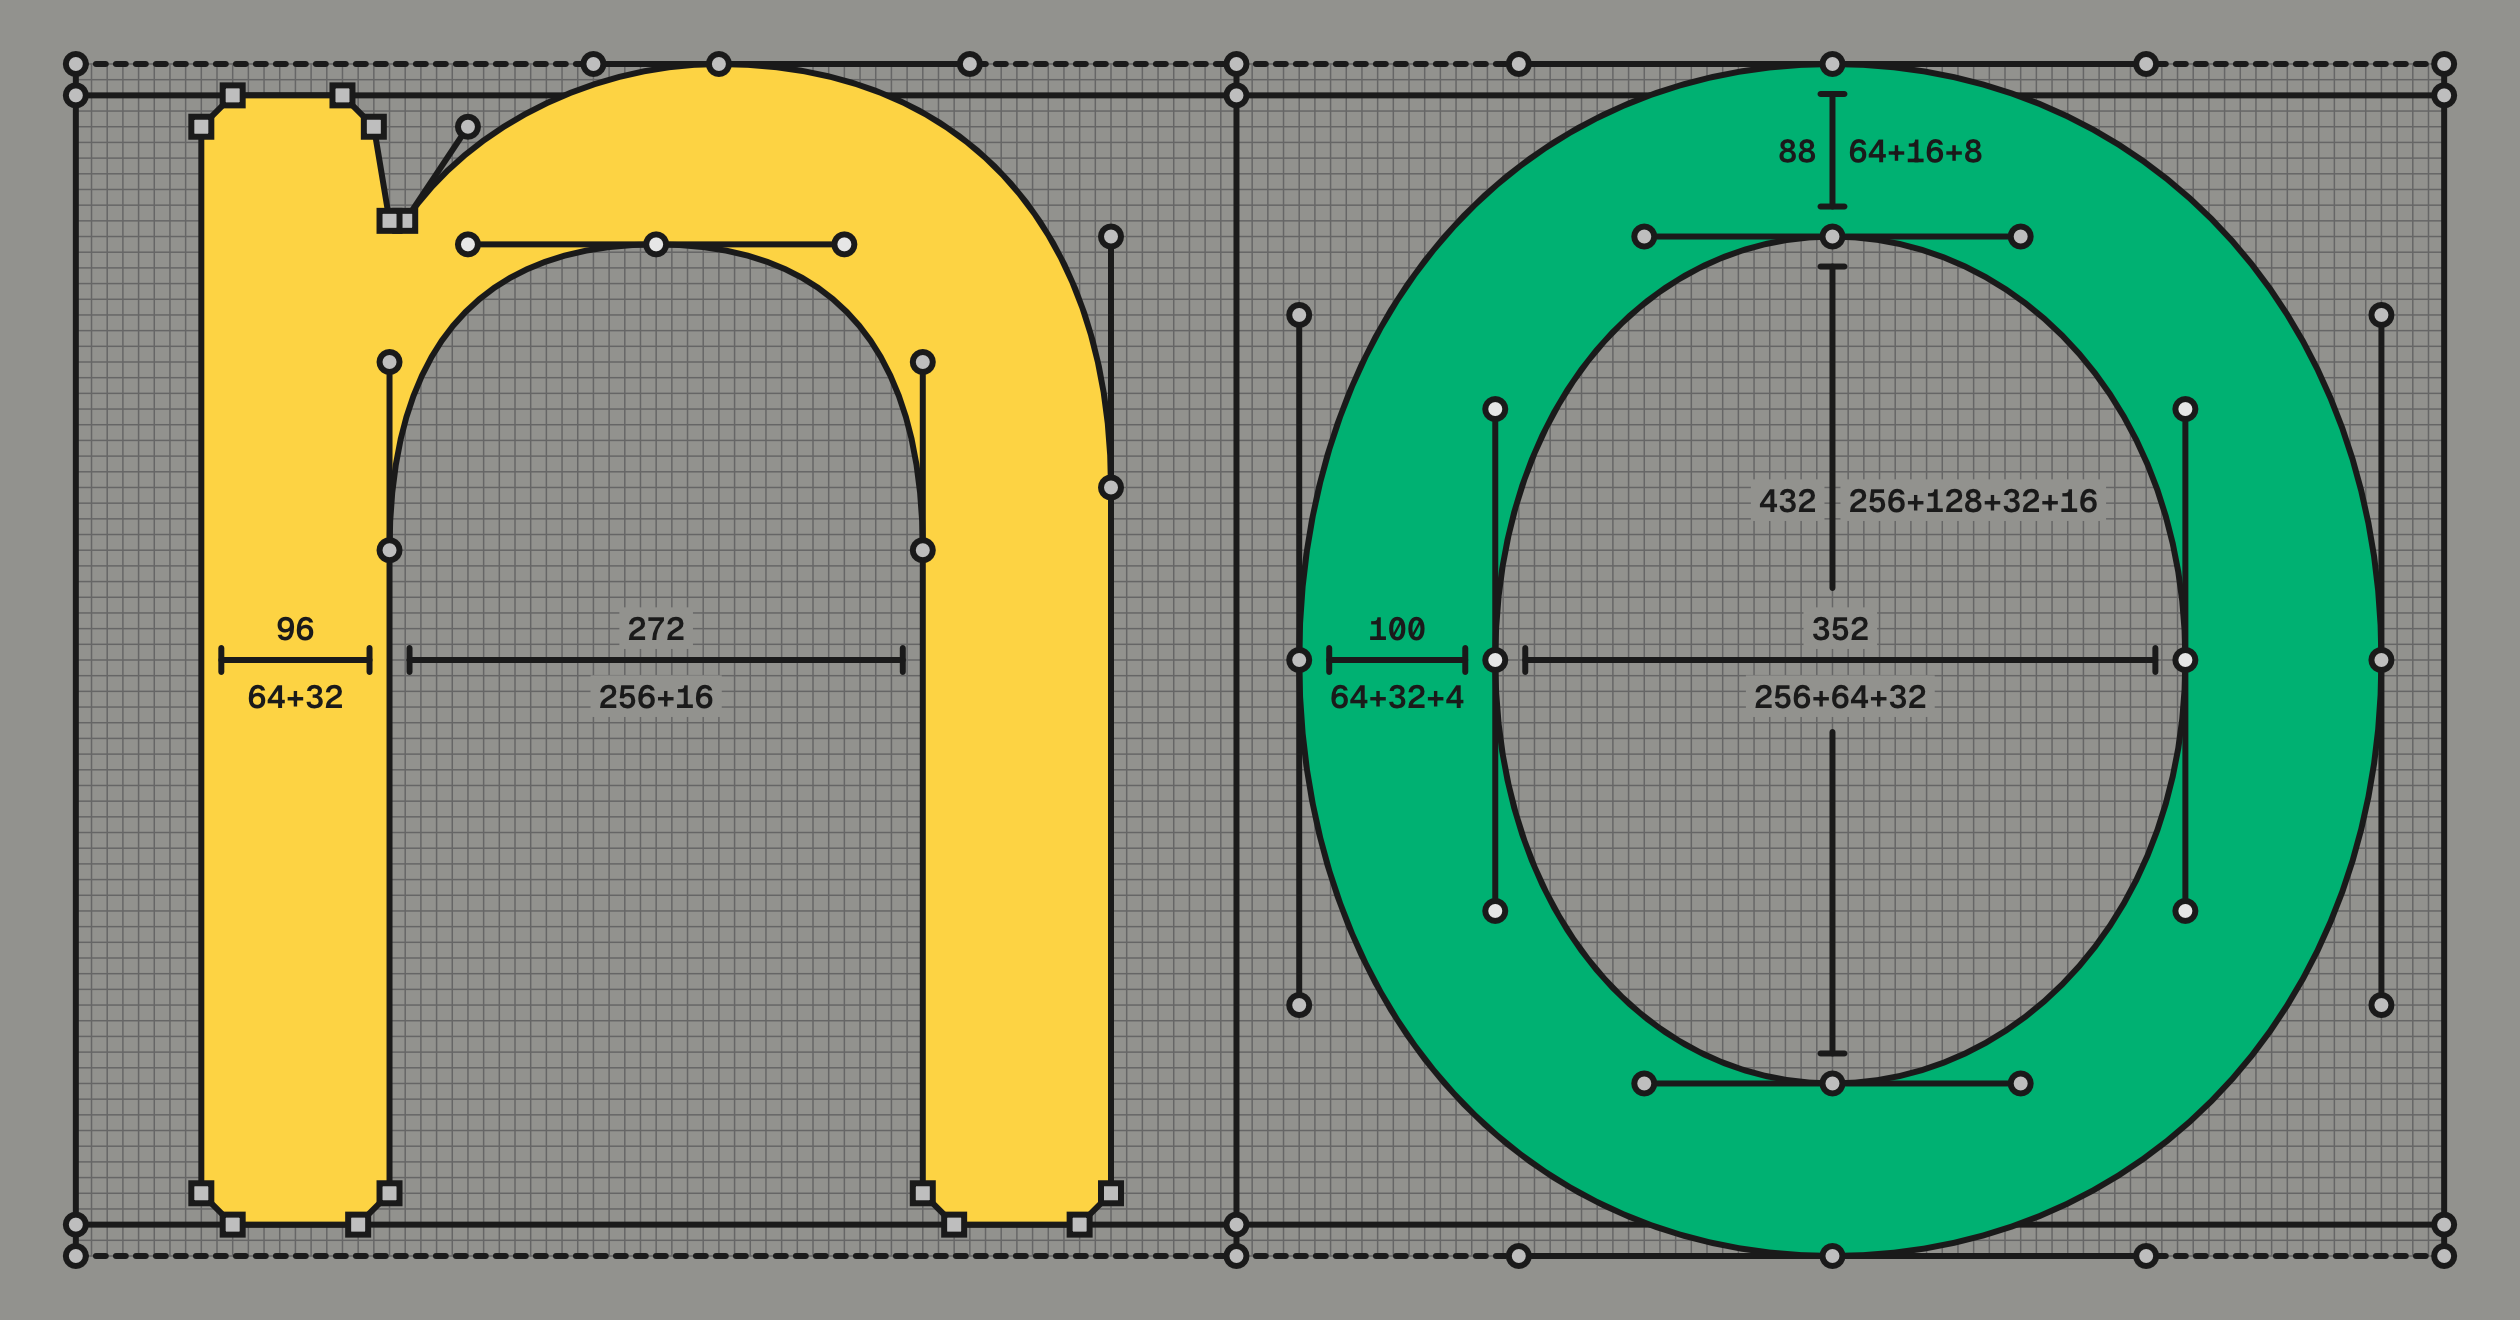
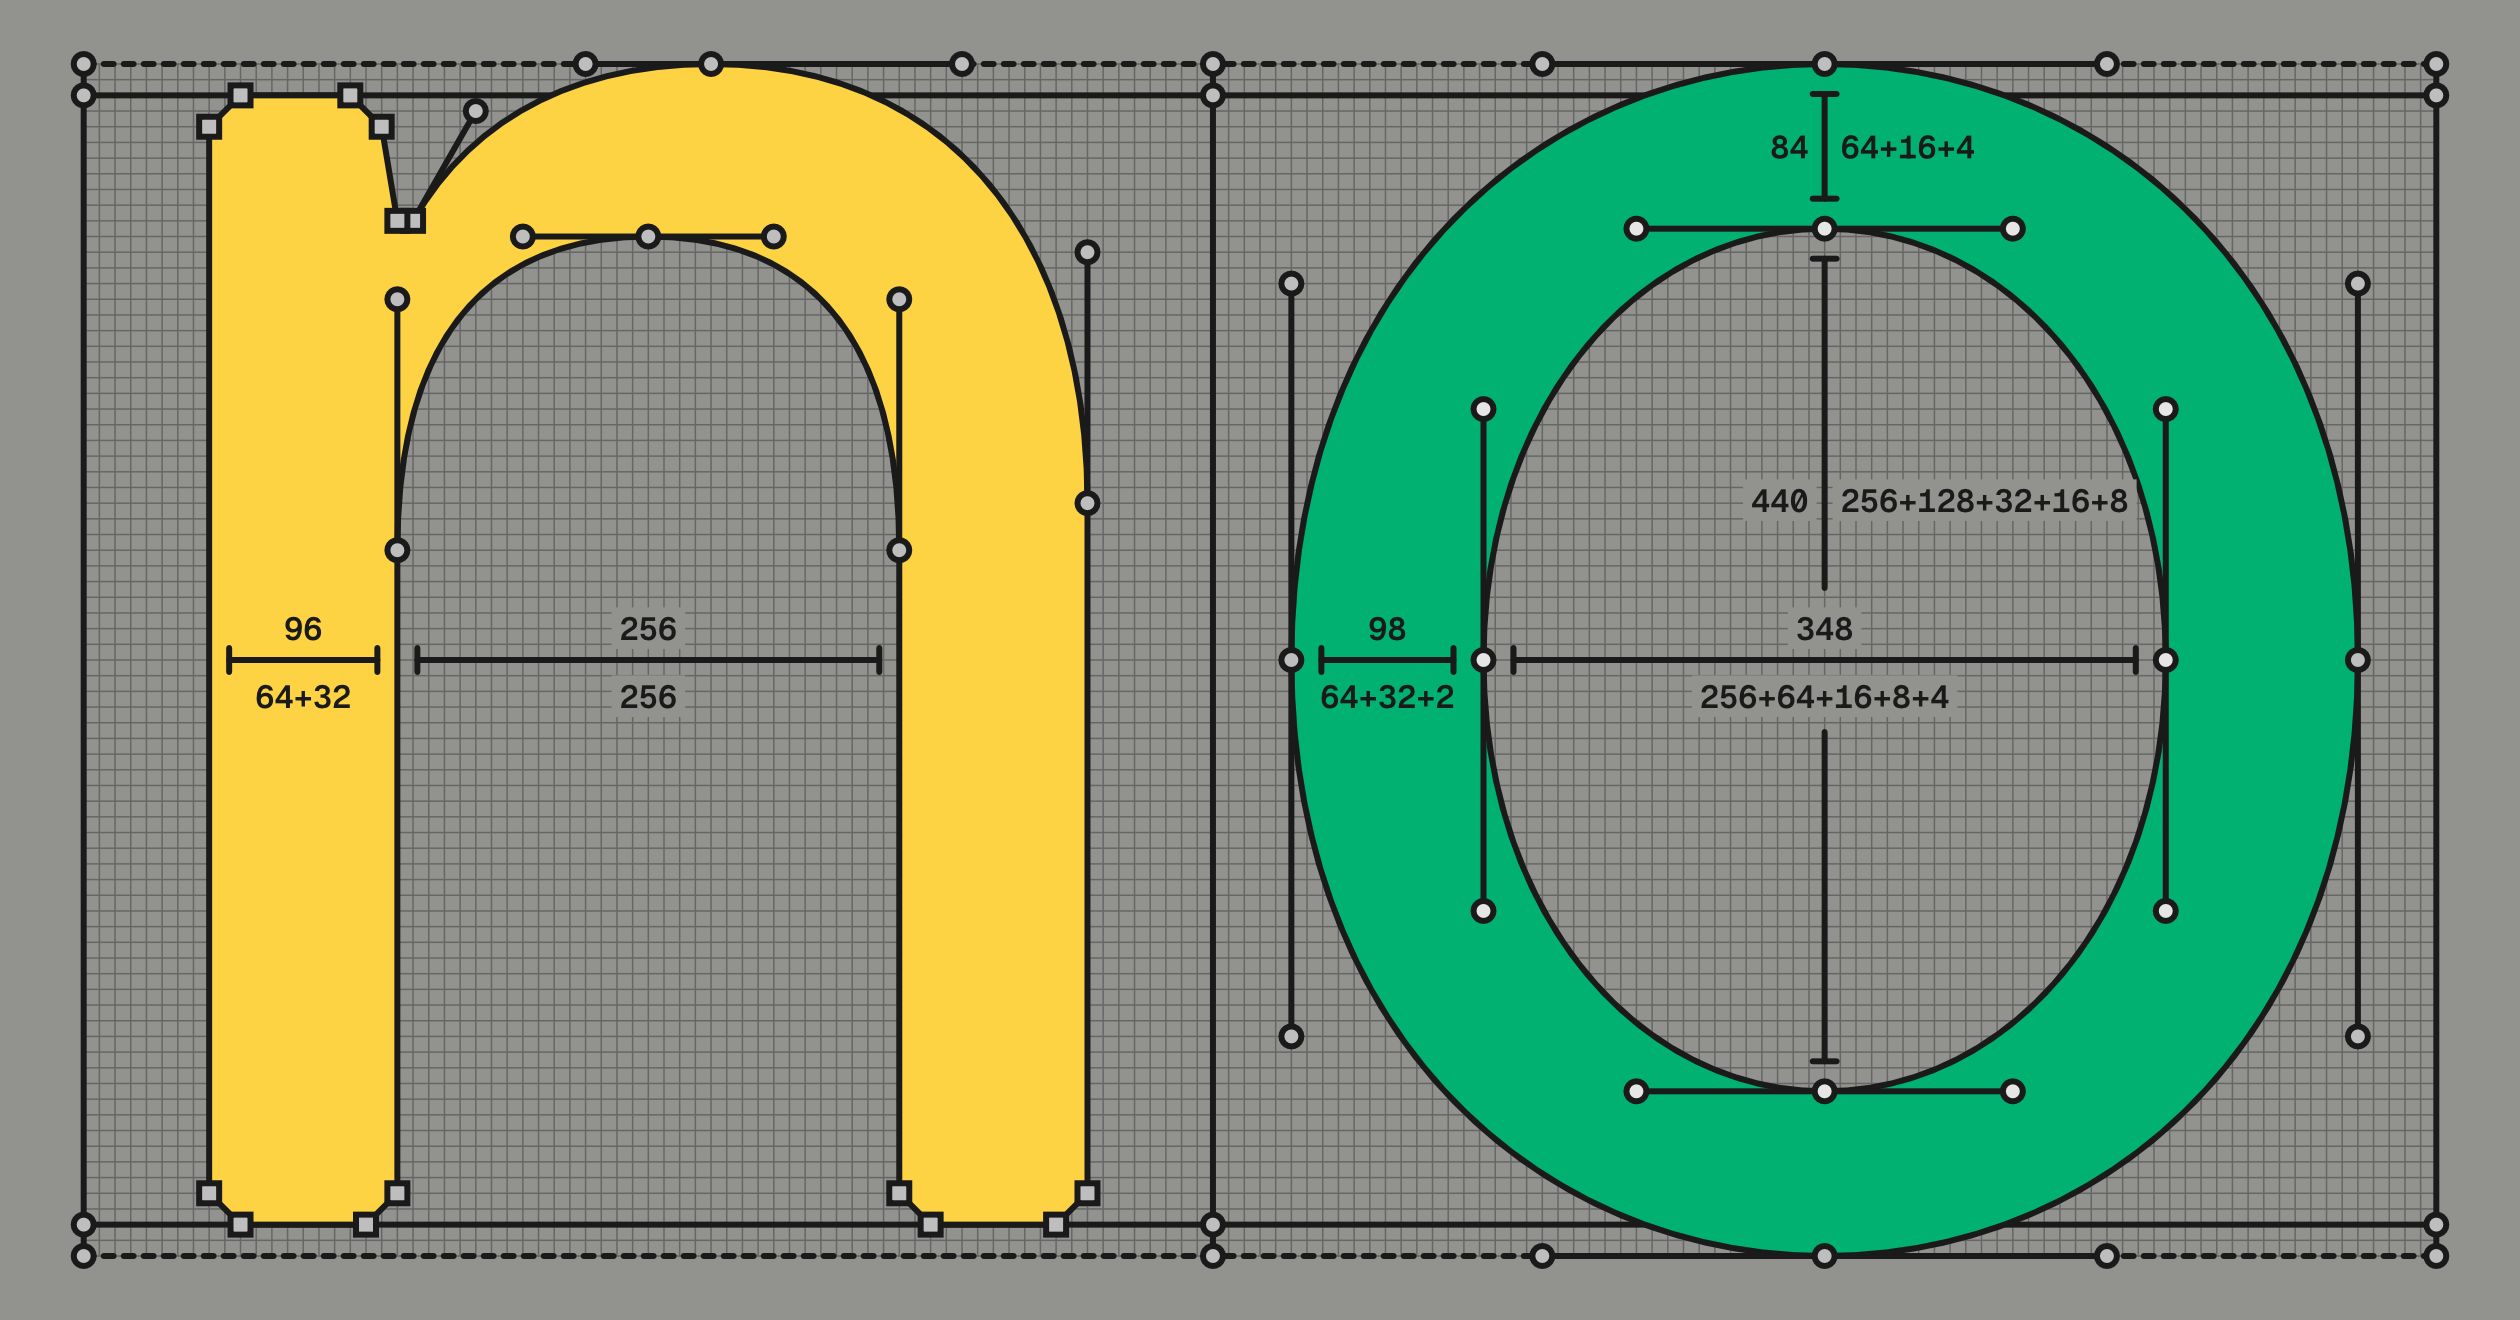
Auto-measure all dimension figures from outline crossings; reconcile drifted values

diff --git a/scripts/virtua-grotesk/src/bin/system.rs b/scripts/virtua-grotesk/src/bin/system.rs
@@ -62,20 +62,22 @@ fn fig_no(renderer: &Renderer, mono: &str, reg: &std::path::Path, out: &std::pat
     }
 
     // Representative stroke sizes plus the open n counter and closed o
-    // counter. Values and endpoints are taken directly from the current UFO.
-    const MEASUREMENTS: [TechnicalMeasurement; 6] = [
-        TechnicalMeasurement::edges(0, (64.0, 288.0), (160.0, 288.0), 96),
-        TechnicalMeasurement::edges(0, (160.0, 288.0), (432.0, 288.0), 272).counter(),
-        TechnicalMeasurement::points(1, (32.0, 288.0), (132.0, 288.0), 100),
-        TechnicalMeasurement::points(1, (304.0, 504.0), (304.0, 592.0), 88),
-        TechnicalMeasurement::points(1, (304.0, 72.0), (304.0, 504.0), 432)
+    // counter. Endpoints and values are resolved from the outlines at
+    // render time, so redrawn glyphs re-measure themselves.
+    let o_mid = ink_mid_x(&o);
+    let measurements = [
+        measure_h_edges(&n, 0, 288.0, (0, 1)),
+        measure_h_edges(&n, 0, 288.0, (1, 2)).counter(),
+        measure_h_points(&o, 1, 288.0, (0, 1)),
+        measure_v_points(&o, 1, o_mid, (2, 3)),
+        measure_v_points(&o, 1, o_mid, (1, 2))
             .counter()
             .gap_line(288.0, COUNTER_LINE_GAP)
             .shift_label(0.0, COUNTER_LABEL_SHIFT),
-        TechnicalMeasurement::points(1, (132.0, 288.0), (484.0, 288.0), 352).counter(),
+        measure_h_points(&o, 1, 288.0, (1, 2)).counter(),
     ];
     let origins = [x_n, x_o];
-    for measurement in MEASUREMENTS {
+    for measurement in measurements {
         technical.measurement(&mut sheet, &f, origins[measurement.glyph], measurement);
     }
     sheet.save(renderer, out);
@@ -120,21 +122,23 @@ fn fig_ho(renderer: &Renderer, mono: &str, reg: &std::path::Path, out: &std::pat
     }
 
     // The H opening and O counter join the representative stem and crossbar
-    // sizes. Values and endpoints are taken directly from the current UFO.
-    const MEASUREMENTS: [TechnicalMeasurement; 7] = [
-        TechnicalMeasurement::points(0, (80.0, 600.0), (184.0, 600.0), 104),
-        TechnicalMeasurement::edges(0, (184.0, 600.0), (584.0, 600.0), 400).counter(),
-        TechnicalMeasurement::edges(0, (384.0, 360.0), (384.0, 456.0), 96),
-        TechnicalMeasurement::points(1, (48.0, 384.0), (156.0, 384.0), 108).break_sum_after(2),
-        TechnicalMeasurement::points(1, (424.0, 684.0), (424.0, 784.0), 100),
-        TechnicalMeasurement::points(1, (424.0, 84.0), (424.0, 684.0), 600)
+    // sizes. Endpoints and values are resolved from the outlines at render
+    // time, so redrawn glyphs re-measure themselves.
+    let o_mid = ink_mid_x(&o);
+    let measurements = [
+        measure_h_points(&h, 0, 600.0, (0, 1)),
+        measure_h_edges(&h, 0, 600.0, (1, 2)).counter(),
+        measure_v_edges(&h, 0, 384.0, (0, 1)),
+        measure_h_points(&o, 1, 384.0, (0, 1)).break_sum_after(2),
+        measure_v_points(&o, 1, o_mid, (2, 3)),
+        measure_v_points(&o, 1, o_mid, (1, 2))
             .counter()
             .gap_line(384.0, COUNTER_LINE_GAP)
             .shift_label(0.0, COUNTER_LABEL_SHIFT),
-        TechnicalMeasurement::points(1, (156.0, 384.0), (692.0, 384.0), 536).counter(),
+        measure_h_points(&o, 1, 384.0, (1, 2)).counter(),
     ];
     let origins = [x_h, x_o];
-    for measurement in MEASUREMENTS {
+    for measurement in measurements {
         technical.measurement(&mut sheet, &f, origins[measurement.glyph], measurement);
     }
     sheet.save(renderer, out);
@@ -182,51 +186,38 @@ fn fig_weights(
         draw_figure_glyph(&mut sheet, outline, S, x, f.baseline, fill);
     }
 
-    // stems and curves, both weights, all measured
-    sheet.dim_h(
-        x_rn + 64.0 * S,
-        x_rn + 160.0 * S,
-        f.y(256.0),
-        "96",
-        role::figure::pen(),
-    );
-    sheet.dim_h(
-        x_ro + 32.0 * S,
-        x_ro + 132.0 * S,
-        f.y(288.0),
-        "100",
-        role::figure::pen(),
-    );
-    sheet.dim_v(
-        x_ro + 304.0 * S,
-        f.y(500.0),
-        f.y(592.0),
-        "92",
-        role::figure::pen(),
-        true,
-    );
-    sheet.dim_h(
-        x_bn + 64.0 * S,
-        x_bn + 256.0 * S,
-        f.y(256.0),
-        "192",
-        role::figure::pen(),
-    );
-    sheet.dim_h(
-        x_bo + 32.0 * S,
-        x_bo + 228.0 * S,
-        f.y(288.0),
-        "196",
-        role::figure::pen(),
-    );
-    sheet.dim_v(
-        x_bo + 344.0 * S,
-        f.y(452.0),
-        f.y(592.0),
-        "140",
-        role::figure::pen(),
-        true,
-    );
+    // Stems and curves, both weights, resolved from the outlines at render
+    // time so redrawn glyphs re-measure themselves.
+    let mut dim_h_span = |o: &Outline, x_origin: f64, y: f64, span: (usize, usize)| {
+        let (a, b, v) = h_span(o, y, span).expect("weights h span");
+        sheet.dim_h(
+            x_origin + a * S,
+            x_origin + b * S,
+            f.y(y),
+            &v.to_string(),
+            role::figure::pen(),
+        );
+    };
+    dim_h_span(&rn, x_rn, 256.0, (0, 1));
+    dim_h_span(&ro, x_ro, 288.0, (0, 1));
+    dim_h_span(&bn, x_bn, 256.0, (0, 1));
+    dim_h_span(&bo, x_bo, 288.0, (0, 1));
+    drop(dim_h_span);
+    let mut dim_v_span = |o: &Outline, x_origin: f64, span: (usize, usize)| {
+        let mid = ink_mid_x(o);
+        let (a, b, v) = v_span(o, mid, span).expect("weights v span");
+        sheet.dim_v(
+            x_origin + mid * S,
+            f.y(a),
+            f.y(b),
+            &v.to_string(),
+            role::figure::pen(),
+            true,
+        );
+    };
+    dim_v_span(&ro, x_ro, (2, 3));
+    dim_v_span(&bo, x_bo, (2, 3));
+    drop(dim_v_span);
     sheet.save(renderer, out);
 }
 
@@ -349,18 +340,22 @@ fn fig_semantic(renderer: &Renderer, mono: &str, reg: &std::path::Path, out: &st
         BASELINE,
         role::figure::green(),
     );
+    // Both dims and the binary rows below resolve from the outlines, so a
+    // redrawn stem or curve re-measures itself.
+    let (n_a, n_b, n_stem) = h_span(&n, 250.0, (0, 1)).expect("n stem @250");
+    let (o_a, o_b, o_stroke) = h_span(&o, 288.0, (0, 1)).expect("o stroke @288");
     sheet.dim_h(
-        x0 + 64.0 * S,
-        x0 + 160.0 * S,
+        x0 + n_a * S,
+        x0 + n_b * S,
         BASELINE + 250.0 * S,
-        "96",
+        &n_stem.to_string(),
         role::figure::pen(),
     );
     sheet.dim_h(
-        x0 + (n.width + 32.0) * S,
-        x0 + (n.width + 132.0) * S,
-        BASELINE + 310.0 * S,
-        "100",
+        x0 + (n.width + o_a) * S,
+        x0 + (n.width + o_b) * S,
+        BASELINE + 288.0 * S,
+        &o_stroke.to_string(),
         role::figure::pen(),
     );
 
@@ -402,8 +397,8 @@ fn fig_semantic(renderer: &Renderer, mono: &str, reg: &std::path::Path, out: &st
             bit_box.draw(sheet, x, y, cell_fill, if one { "1" } else { "0" });
         }
     };
-    draw_bits(&mut sheet, 96, 1000.0, role::figure::orange());
-    draw_bits(&mut sheet, 100, 790.0, role::figure::yellow());
+    draw_bits(&mut sheet, n_stem as u32, 1000.0, role::figure::orange());
+    draw_bits(&mut sheet, o_stroke as u32, 790.0, role::figure::yellow());
 
     let bar_w = 690.0;
     let draw_bar = |sheet: &mut Sheet, pct: f64, y: f64, fill: Color| {

diff --git a/scripts/virtua-grotesk/src/technical.rs b/scripts/virtua-grotesk/src/technical.rs
@@ -481,6 +481,57 @@ pub struct TechnicalMeasurement {
     ends: MeasurementEnds,
 }
 
+/// Resolve a horizontal measurement from the outline's crossings at `y`,
+/// between crossing indices `span`. Endpoints and the printed value follow
+/// the current sources; a missing span panics with context so a redrawn
+/// glyph fails loudly instead of rendering a stale dimension.
+pub fn measure_h_points(
+    o: &crate::Outline,
+    glyph: usize,
+    y: f64,
+    span: (usize, usize),
+) -> TechnicalMeasurement {
+    let (a, b, v) = crate::h_span(o, y, span)
+        .unwrap_or_else(|| panic!("glyph {glyph}: no h crossings {span:?} at y={y}"));
+    TechnicalMeasurement::points(glyph, (a, y), (b, y), v)
+}
+
+/// See [`measure_h_points`]; edge-style caps.
+pub fn measure_h_edges(
+    o: &crate::Outline,
+    glyph: usize,
+    y: f64,
+    span: (usize, usize),
+) -> TechnicalMeasurement {
+    let (a, b, v) = crate::h_span(o, y, span)
+        .unwrap_or_else(|| panic!("glyph {glyph}: no h crossings {span:?} at y={y}"));
+    TechnicalMeasurement::edges(glyph, (a, y), (b, y), v)
+}
+
+/// Vertical counterpart of [`measure_h_points`], along the line at `x`.
+pub fn measure_v_points(
+    o: &crate::Outline,
+    glyph: usize,
+    x: f64,
+    span: (usize, usize),
+) -> TechnicalMeasurement {
+    let (a, b, v) = crate::v_span(o, x, span)
+        .unwrap_or_else(|| panic!("glyph {glyph}: no v crossings {span:?} at x={x}"));
+    TechnicalMeasurement::points(glyph, (x, a), (x, b), v)
+}
+
+/// See [`measure_v_points`]; edge-style caps.
+pub fn measure_v_edges(
+    o: &crate::Outline,
+    glyph: usize,
+    x: f64,
+    span: (usize, usize),
+) -> TechnicalMeasurement {
+    let (a, b, v) = crate::v_span(o, x, span)
+        .unwrap_or_else(|| panic!("glyph {glyph}: no v crossings {span:?} at x={x}"));
+    TechnicalMeasurement::edges(glyph, (x, a), (x, b), v)
+}
+
 impl TechnicalMeasurement {
     pub const fn points(glyph: usize, p0: (f64, f64), p1: (f64, f64), value: i64) -> Self {
         Self::new(glyph, p0, p1, value, MeasurementEnds::Points)

diff --git a/scripts/virtua-grotesk/src/bin/interpn.rs b/scripts/virtua-grotesk/src/bin/interpn.rs
@@ -68,37 +68,20 @@ struct NDimensions {
     inner_right: f64,
 }
 
-/// Read the stem and counter edges from the outline being drawn. The two
-/// smooth on-curve points at y=344 define the straight counter walls in every
-/// compatible n source. Fail loudly if that topology changes instead of
-/// displaying a stale hardcoded label.
+/// Read the stem and counter edges from the outline being drawn, as
+/// crossings of the measurement line with the outline. Fails loudly if the
+/// topology changes instead of displaying a stale hardcoded label.
 fn n_dimensions(outline: &Outline) -> NDimensions {
-    let ink_left = outline
-        .points
-        .iter()
-        .map(|(x, _, _)| *x)
-        .fold(f64::INFINITY, f64::min);
-    let mut counter_edges: Vec<f64> = outline
-        .points
-        .iter()
-        .filter_map(|(x, y, role)| {
-            if (*y - 344.0).abs() < f64::EPSILON && !matches!(role, PtRole::Off) {
-                Some(*x)
-            } else {
-                None
-            }
-        })
-        .collect();
-    counter_edges.sort_by(f64::total_cmp);
-    assert_eq!(
-        counter_edges.len(),
-        2,
-        "n counter measurement expects two on-curve edges at y=344"
+    let xs = h_crossings(&outline.path, 344.0);
+    assert!(
+        xs.len() >= 3,
+        "n measurement expects at least 3 crossings at y=344, got {}",
+        xs.len()
     );
     NDimensions {
-        ink_left,
-        inner_left: counter_edges[0],
-        inner_right: counter_edges[1],
+        ink_left: xs[0],
+        inner_left: xs[1],
+        inner_right: xs[2],
     }
 }
 

diff --git a/scripts/virtua-grotesk/src/lib.rs b/scripts/virtua-grotesk/src/lib.rs
@@ -602,6 +602,30 @@ pub fn v_crossings(path: &BezPath, x: f64) -> Vec<f64> {
     ys
 }
 
+/// Endpoints and rounded length of the span between two crossings of the
+/// horizontal line at `y`. None when the crossings don't exist, so a
+/// redrawn glyph fails loudly instead of rendering a stale dimension.
+pub fn h_span(o: &Outline, y: f64, span: (usize, usize)) -> Option<(f64, f64, i64)> {
+    let xs = h_crossings(&o.path, y);
+    let (a, b) = (*xs.get(span.0)?, *xs.get(span.1)?);
+    Some((a, b, (b - a).round() as i64))
+}
+
+/// Vertical counterpart of [`h_span`], along the line at `x`.
+pub fn v_span(o: &Outline, x: f64, span: (usize, usize)) -> Option<(f64, f64, i64)> {
+    let ys = v_crossings(&o.path, x);
+    let (a, b) = (*ys.get(span.0)?, *ys.get(span.1)?);
+    Some((a, b, (b - a).round() as i64))
+}
+
+/// Horizontal center of the outline's ink, for measuring bowls at their
+/// vertical extrema (where crossing values land on the grid).
+pub fn ink_mid_x(o: &Outline) -> f64 {
+    use kurbo::Shape;
+    let bbox = o.path.bounding_box();
+    (bbox.x0 + bbox.x1) / 2.0
+}
+
 // --- abstract-figure primitives -----------------------------------------------------
 
 /// The stroked, filled rectangle with a centered mono numeral that the

diff --git a/scripts/virtua-grotesk/src/bin/proofs.rs b/scripts/virtua-grotesk/src/bin/proofs.rs
@@ -287,10 +287,10 @@ fn fig_scaling(renderer: &Renderer, mono: &str, out: &std::path::Path) {
     // sixty-fourths. A cell is green when that value is an integer on the
     // rasterizer's 1/64 px grid, red when it must round. Rows use real
     // design values: the x-height (576 / 562), the 64- and 96-unit
-    // structural measures, the 88 counter measurement, and the corrected
-    // 116. The 1000-em panel is red everywhere.
+    // structural measures, the o's 40 left edge, and the corrected 116.
+    // The 1000-em panel is red everywhere.
     let sizes = [12u64, 13, 14, 15, 16, 17, 18];
-    let rows: [(u64, u64); 5] = [(576, 562), (116, 116), (96, 96), (88, 88), (64, 64)];
+    let rows: [(u64, u64); 5] = [(576, 562), (116, 116), (96, 96), (40, 40), (64, 64)];
     const CELL: f64 = 128.0;
     const PITCH: f64 = 140.0;
     const GRID_W: f64 = 6.0 * PITCH + CELL;
